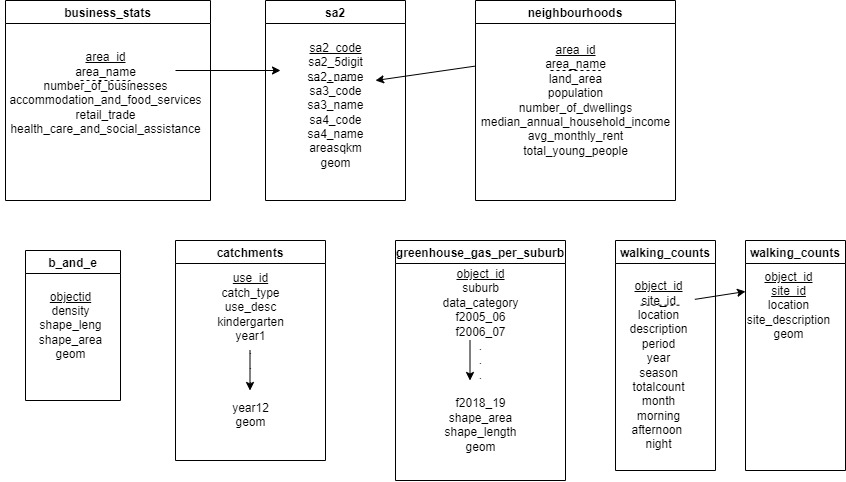
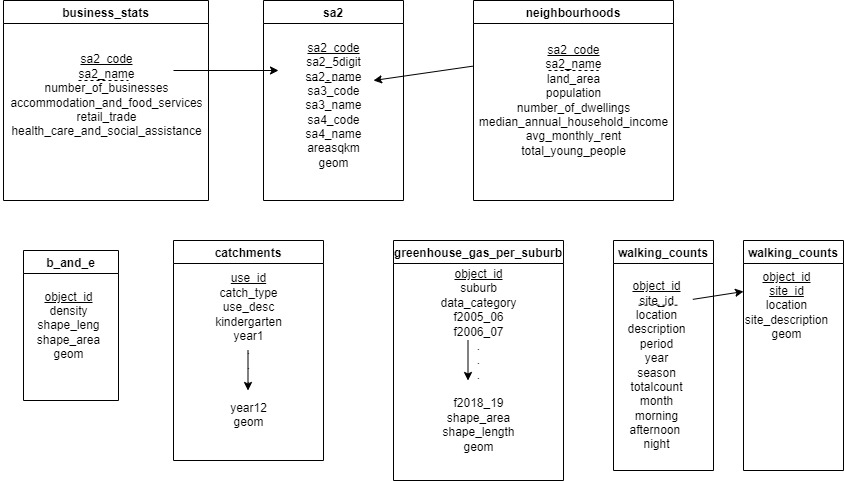
updated schema and names

diff --git a/create_database.py b/create_database.py
@@ -28,8 +28,8 @@ SA2.to_sql('sa2', conn, if_exists='append', index=False,
 conn.execute("""
 DROP TABLE IF EXISTS neighborhoods;
 CREATE TABLE neighborhoods(
-   area_id INTEGER PRIMARY KEY REFERENCES sa2(sa2_code),
-   area_name VARCHAR(100) REFERENCES sa2(sa2_name),
+   sa2_code INTEGER PRIMARY KEY REFERENCES sa2(sa2_code),
+   sa2_name VARCHAR(100) REFERENCES sa2(sa2_name),
    land_area FLOAT,
    population FLOAT,
    number_of_dwellings FLOAT,
@@ -44,8 +44,8 @@ neighbours.to_sql('neighborhoods', conn, if_exists='append', index=False)
 conn.execute("""
 DROP TABLE IF EXISTS business_stats;
 CREATE TABLE business_stats(
-   area_id INTEGER PRIMARY KEY REFERENCES sa2(sa2_code),
-   area_name VARCHAR(100) REFERENCES sa2(sa2_name),
+   sa2_code INTEGER PRIMARY KEY REFERENCES sa2(sa2_code),
+   sa2_name VARCHAR(100) REFERENCES sa2(sa2_name),
    number_of_businesses INTEGER,
    accommodation_and_food_services INTEGER,
    retail_trade INTEGER,
@@ -59,7 +59,7 @@ business_stats.to_sql('business_stats', conn, if_exists='append', index=False)
 conn.execute("""
 DROP TABLE IF EXISTS b_and_e;
 CREATE TABLE b_and_e(
-   objectid INTEGER PRIMARY KEY,
+   object_id INTEGER PRIMARY KEY,
    density varchar(50),
    shape_length FLOAT,
    shape_area FLOAT,

diff --git a/data_cleaning.py b/data_cleaning.py
@@ -86,6 +86,9 @@ for index, row in neighbours.iterrows():
 
 neighbours.drop(not_sa2_region, axis=0, inplace=True)
 
+neighbours.rename(
+    columns={'area_id': 'sa2_code', 'area_name': 'sa2_name'}, inplace=True)
+
 ############################################################
 
 business_stats = pd.read_csv("BusinessStats.csv")
@@ -102,6 +105,10 @@ for index, row in business_stats.iterrows():
 business_stats.drop(not_sa2_region, axis=0, inplace=True)
 # cast as string
 business_stats['area_name'] = business_stats['area_name'].astype('string')
+
+
+business_stats.rename(
+    columns={'area_id': 'sa2_code', 'area_name': 'sa2_name'}, inplace=True)
 ###################################################################
 
 break_and_enter = gpd.read_file("bae/BreakEnterDwelling_JanToDec2021.shp")
@@ -122,7 +129,7 @@ break_and_enter = break_and_enter.drop(columns=['contour', 'orig_fid', "geometry
 
 # rename columns to something nice
 break_and_enter.rename(
-    columns={'shape_leng': 'shape_length'}, inplace=True)
+    columns={'shape_leng': 'shape_length', 'objectid': 'object_id'}, inplace=True)
 ##################################################################
 
 # reading all files
